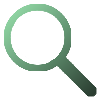
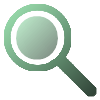
a) test J : amélioration du fuzzy matching en renforçant la plausibilité dans ScoreCandidates(). Ajustement du filtrage des tâches candidates pour éviter les faux positifs sur mots courts. b) test K : meilleure reconnaissance des expressions mixtes via normalisation multi‑tokens. Correction du match
Couverture actuelle de la matrice A‑Z : 26/26 tests OK.
Moteur de recherche finalisé. Pertinence des résultats légèrement supérieure à celle du calendrier Outlook.

Changed region(s): [[0.15, 0.15, 0.6, 0.6]]

diff --git a/LifeProManager/SmartSearch.cs b/LifeProManager/SmartSearch.cs
@@ -1,7 +1,7 @@
 /// <file>SmartSearch.cs</file>
 /// <author>Laurent Barraud</author>
 /// <version>1.8</version>
-/// <date>April 14th, 2026</date>
+/// <date>April 15th, 2026</date>
 
 using System;
 using System.Collections;
@@ -359,17 +359,23 @@ namespace LifeProManager
                 foreach (string variant in lstVariantTokens)
                 {
                     // Safety limit: prevents SQLite "too many variables" crash
-                    if (ExpandedTokensSet.Count >= 50)
+                    if (ExpandedTokensSet.Count >= 200)
                     {
                         break;
                     }
 
+                    // Adaptive Levenshtein radius:
+                    // - short tokens (<= 6 chars) allow distance 2
+                    // - longer tokens allow distance 1 to avoid pollution
+                    int maxDistance = (normalizedToken.Length <= 6) ? 2 : 1;
+
                     int distance = CalculateLevenshteinDistance(normalizedToken, variant);
 
-                    if (distance <= 2 && !ExpandedTokensSet.Contains(variant))
+                    if (distance <= maxDistance && !ExpandedTokensSet.Contains(variant))
                     {
                         ExpandedTokensSet.Add(variant);
                     }
+
                 }
             }
 
@@ -662,7 +668,8 @@ namespace LifeProManager
         /// - deadline proximity (today, overdue, near, same month)
         /// </summary>
         private List<ScoredTask> ScoreCandidates(List<Tasks> candidateTasks,
-            HashSet<string> lexicalTokensOnly, HashSet<string> expandedLexicalTokens, bool hasTemporal)
+                 HashSet<string> lexicalTokensOnly, HashSet<string> expandedLexicalTokens,
+                 bool hasTemporal, string parsedPriority)
         {
             if (candidateTasks == null || candidateTasks.Count == 0)
             {
@@ -783,16 +790,33 @@ namespace LifeProManager
                     // Levenshtein fuzzy matching (only for original lexical tokens)
                     if (isExactToken)
                     {
-                        // Keeps only words that are plausible fuzzy candidates.
-                        // This prevents fuzzy matching on unrelated words.
+                        // Plausibility filter to avoid fuzzy pollution
                         var plausibleWords = allWords
-                            .Where(word => word.Length > 0 && expandedToken.Length > 0 &&
-                                (word[0] == expandedToken[0] ||                       // same first letter
-                                 word.Intersect(expandedToken).Count() >= 2           // share at least 2 chars
-                                ))
+                            .Where(candidateWord =>
+                            {
+                                if (string.IsNullOrWhiteSpace(candidateWord))
+                                {
+                                    return false;
+                                }
+
+                                string normalizedCandidate = candidateWord.ToLowerInvariant();
+                                string normalizedToken = expandedToken.ToLowerInvariant();
+
+                                // Checks if both words start with the same letter
+                                bool sameFirstLetter = normalizedCandidate[0] == normalizedToken[0];
+
+                                // Counts how many characters they share
+                                int sharedCharacterCount = normalizedCandidate.Intersect(normalizedToken).Count();
+
+                                // Avoids matching words with very different lengths
+                                bool similarLength = Math.Abs(normalizedCandidate.Length - normalizedToken.Length) <= 2;
+
+                                // Accepts only if the candidate word is structurally plausible
+                                return (sameFirstLetter || sharedCharacterCount >= 3) && similarLength;
+                            })
                             .ToList();
 
-                        // Compute best Levenshtein distance among plausible candidates
+                        // Computes best Levenshtein distance among plausible candidates
                         int bestDistance = plausibleWords
                             .Select(word => CalculateLevenshteinDistance(expandedToken, word))
                             .DefaultIfEmpty(int.MaxValue)
@@ -900,6 +924,41 @@ namespace LifeProManager
                 {
                     totalScore -= 25;
                 }
+
+                // Priority semantic boost
+                if (!string.IsNullOrEmpty(parsedPriority))
+                {
+                    string taskPriority = "";
+
+                    // Map Priorities_id to semantic category
+                    switch (task.Priorities_id)
+                    {
+                        case 1: // important
+                        case 3: // important + repeatable
+                            taskPriority = "important";
+                            break;
+
+                        case 4: // anniversary
+                            taskPriority = "anniversary";
+                            break;
+
+                        default:
+                            taskPriority = ""; // no semantic category
+                            break;
+                    }
+
+                    if (taskPriority == parsedPriority)
+                    {
+                        // Strong semantic match
+                        totalScore += 40;
+                    }
+                    else
+                    {
+                        // Weak semantic match (same family)
+                        totalScore += 10;
+                    }
+                }
+
 
                 // Adds final scored task only if not rejected
                 if (totalScore > int.MinValue)
@@ -1027,7 +1086,7 @@ namespace LifeProManager
                 bool hasTemporal = temporalTokensOnly.Count > 0;
 
                 List<ScoredTask> scoredTasks = ScoreCandidates(candidateTasks, lexicalTokensOnly,
-                    expandedLexicalTokens, hasTemporal);
+                    expandedLexicalTokens, hasTemporal, parsedPriority);
 
                 // ---------------------------------------------------------------------
                 // KEYWORD-FIRST OVERRIDE
@@ -1560,14 +1619,26 @@ namespace LifeProManager
                 return true;
             }
 
+            // ---------------------------------------------------------------------
             // Multi-word relative day expressions like "day after tomorrow"
-            string collapsedFullTokenInput = normalizedFullTokenInput.Replace(" ", "");
+            // Filter out non-semantic words using LangDict.IgnoredKeywordSet
+            // before collapsing. This ensures correct matching against
+            // RelativeDayOffsetDict.
+            // ---------------------------------------------------------------------
+            string filteredFullTokenInput = string.Join(" ",
+                tokensList
+                    .Select(token => LangDict.NormalizeKey(token))
+                    .Where(token => !LangDict.IgnoredKeywordSet.Contains(token))
+            );
+
+            // Collapses only meaningful tokens
+            string collapsedFullTokenInput = filteredFullTokenInput.Replace(" ", "");
 
             if (LangDict.RelativeDayOffsetDict.TryGetValue(collapsedFullTokenInput, out int relativeDayOffSetValue))
             {
-                DateTime target = now.Date.AddDays(relativeDayOffSetValue);
-                startDateTime = target;
-                endDateTime = target;
+                DateTime targetDateTime = now.Date.AddDays(relativeDayOffSetValue);
+                startDateTime = targetDateTime;
+                endDateTime = targetDateTime;
                 return true;
             }
 
@@ -1923,6 +1994,41 @@ namespace LifeProManager
             if (TryParseWeekdayAbsolute(rawQuery, today, out startDate, out endDate))
             {
                 return (startDate, endDate);
+            }
+
+            // ---------------------------------------------------------------------
+            // Noun + weekday ("factura lunes", "meeting tuesday")
+            // Detects patterns where a weekday appears after a non‑temporal word.
+            // ---------------------------------------------------------------------
+            for (int i = 0; i < normalizedTokens.Count - 1; i++)
+            {
+                string firstToken = normalizedTokens[i];
+                string secondToken = normalizedTokens[i + 1];
+
+                // Second token must be a weekday
+                if (LangDict.WeekdayDict.TryGetValue(secondToken, out DayOfWeek weekday))
+                {
+                    // First token must not be temporal
+                    if (!LangDict.TemporalDirectionDict.ContainsKey(firstToken) &&
+                        !LangDict.TemporalPrepositionSet.Contains(firstToken) &&
+                        !LangDict.MonthNumberDict.ContainsKey(firstToken) &&
+                        !LangDict.WeekdayDict.ContainsKey(firstToken))
+                    {
+                        // Computes next occurrence of the weekday
+                        int delta = ((int)weekday - (int)today.DayOfWeek + 7) % 7;
+                        
+                        if (delta == 0)
+                        {
+                            delta = 7; // always next week
+                        }
+
+                        DateTime targetDateTime = today.AddDays(delta);
+
+                        startDate = targetDateTime;
+                        endDate = targetDateTime;
+                        return (startDate, endDate);
+                    }
+                }
             }
 
             // ---------------------------------------------------------------------

diff --git a/LifeProManager/frmMain.cs b/LifeProManager/frmMain.cs
@@ -1,7 +1,7 @@
 /// <file>frmMain.cs</file>
 /// <author>Laurent Barraud, David Rossy and Julien Terrapon</author>
 /// <version>1.8</version>
-/// <date>April 14th, 2026</date>
+/// <date>April 15th, 2026</date>
 
 using Microsoft.Win32;
 using System;
@@ -421,10 +421,10 @@ namespace LifeProManager
                 return;
             }
 
-            // Super-hover effect (Shift pressed) for Delete Topic button
-            if (btn == cmdDeleteTopic && Control.ModifierKeys == Keys.Shift)
+            // Super-hover effect (Ctrl or Shift pressed) for Delete Topic button
+            if (btn == cmdDeleteTopic && (Control.ModifierKeys == Keys.Shift || ModifierKeys == Keys.Control)) 
             {
-                Image superHover = Properties.Resources.delete_trash_hover;
+                Image superHover = Properties.Resources.delete_trash_super_hover;
 
                 if (superHover != null)
                 {
@@ -433,8 +433,8 @@ namespace LifeProManager
                 }
             }
 
-            // Super-hover effect (CTRL pressed) for Search button
-            if (btn == cmdSearch && Control.ModifierKeys == Keys.Control)
+            // Super-hover effect (Ctrl pressed) for Search button
+            if (btn == cmdSearch && ModifierKeys == Keys.Control)
             {
                 Image searchSuperHover = Properties.Resources.search_super_hover;
 
@@ -778,16 +778,7 @@ namespace LifeProManager
 
         private void cmdDeleteTopic_MouseEnter(object sender, EventArgs e)
         {
-            var button = (Button)sender;
-
-            if (Control.ModifierKeys == Keys.Shift)
-            {
-                button.BackgroundImage = Properties.Resources.delete_trash_super_hover;
-            }
-            else
-            {
-                button.BackgroundImage = Properties.Resources.delete_trash_hover;
-            }
+            
         }
 
         private void cmdDeleteTopic_MouseLeave(object sender, EventArgs e)

diff --git a/LifeProManager/LangDict.cs b/LifeProManager/LangDict.cs
@@ -1,7 +1,7 @@
 /// <file>LangDict.cs</file>
 /// <author>Laurent Barraud</author>
 /// <version>1.8</version>
-/// <date>April 14th, 2026</date>
+/// <date>April 15th, 2026</date>
 
 using System;
 using System.Collections.Generic;
@@ -73,6 +73,23 @@ namespace LifeProManager
 
             // Spanish
             "dia", "día", "dias", "días"
+        };
+
+        // Ignored keywords (articles, determiners, non-semantic words)
+        // Used to clean multi-token expressions before collapsing.
+        internal static readonly (string key, string value)[] lstIgnoredKeywords =
+        {
+            ("the", "the"),
+            ("le", "le"),
+            ("la", "la"),
+            ("les", "les"),
+            ("un", "un"),
+            ("une", "une"),
+            ("des", "des"),
+            ("el", "el"),
+            ("lo", "lo"),
+            ("los", "los"),
+            ("las", "las")
         };
 
         // Month names mapped to their numeric value (1–12).
@@ -567,6 +584,9 @@ namespace LifeProManager
 
         internal static readonly HashSet<string> DayKeywordSet =
             BuildNormalizedHashSet(lstDayKeywords);
+
+        internal static readonly HashSet<string> IgnoredKeywordSet =
+            BuildNormalizedHashSet(lstIgnoredKeywords.Select(x => x.value));
 
         internal static readonly HashSet<string> MonthKeywordSet =
             BuildNormalizedHashSet(lstMonthKeywords);

diff --git a/LifeProManager/frmAddTopic.Designer.cs b/LifeProManager/frmAddTopic.Designer.cs
@@ -67,6 +67,8 @@
             this.cmdValidate.BackgroundImage = global::LifeProManager.Properties.Resources.validate_task_hover;
             this.cmdValidate.Cursor = System.Windows.Forms.Cursors.Hand;
             this.cmdValidate.FlatAppearance.BorderSize = 0;
+            this.cmdValidate.FlatAppearance.MouseDownBackColor = System.Drawing.Color.Transparent;
+            this.cmdValidate.FlatAppearance.MouseOverBackColor = System.Drawing.Color.Transparent;
             this.cmdValidate.Name = "cmdValidate";
             this.cmdValidate.UseVisualStyleBackColor = false;
             this.cmdValidate.Click += new System.EventHandler(this.cmdValidate_Click);

diff --git a/LifeProManager/tests/TestRunner.cs b/LifeProManager/tests/TestRunner.cs
@@ -1,7 +1,7 @@
 /// <file>TestRunner.cs</file>
 /// <author>Laurent Barraud</author>
 /// <version>1.8</version>
-/// <date>April 14th, 2026</date>
+/// <date>April 15th, 2026</date>
 
 using LifeProManager;
 using System;
@@ -9,6 +9,8 @@ using System.Collections.Generic;
 
 public static class TestRunner
 {
+    // This method is called when the user holds CTRL and clicks on the Search button in the UI.
+    // It runs a series of 26 tests, each with a different query.
     public static void RunAll(SmartSearch engine)
     {
         Console.WriteLine("=== SMARTSEARCH A to Z TEST RUNNER ===");

diff --git a/LifeProManager/DBConnection.cs b/LifeProManager/DBConnection.cs
@@ -1,7 +1,7 @@
 /// <file>DBConnection.cs</file>
 /// <author>Laurent Barraud, David Rossy and Julien Terrapon</author>
 /// <version>1.8</version>
-/// <date>April 14th, 2026</date>
+/// <date>April 15th, 2026</date>
 
 using System;
 using System.Collections.Generic;

diff --git a/LifeProManager/frmAddTopic.cs b/LifeProManager/frmAddTopic.cs
@@ -1,7 +1,7 @@
 /// <file>frmAddTopic.cs</file>
 /// <author>Laurent Barraud, David Rossy and Julien Terrapon</author>
 /// <version>1.8</version>
-/// <date>April 14th, 2026</date>
+/// <date>April 15th, 2026</date>
 
 using System;
 using System.Collections.Generic;

diff --git a/LifeProManager/frmEditTask.cs b/LifeProManager/frmEditTask.cs
@@ -1,7 +1,7 @@
 /// <file>frmEditTask.cs</file>
 /// <author>Laurent Barraud, David Rossy and Julien Terrapon</author>
 /// <version>1.8</version>
-/// <date>April 14th, 2026</date>
+/// <date>April 15th, 2026</date>
 
 using System;
 using System.Collections.Generic;

diff --git a/LifeProManager/frmAddTask.cs b/LifeProManager/frmAddTask.cs
@@ -1,7 +1,7 @@
 /// <file>frmAddTask.cs</file>
 /// <author>Laurent Barraud, David Rossy and Julien Terrapon</author>
 /// <version>1.8</version>
-/// <date>April 14th, 2026</date>
+/// <date>April 15th, 2026</date>
 
 using System;
 using System.Collections.Generic;

diff --git a/LifeProManager/Program.cs b/LifeProManager/Program.cs
@@ -1,7 +1,7 @@
 /// <file>Program.cs</file>
 /// <author>Laurent Barraud, David Rossy and Julien Terrapon</author>
 /// <version>1.8</version>
-/// <date>April 14th, 2026</date>
+/// <date>April 15th, 2026</date>
 
 using System;
 using System.Globalization;

diff --git a/LifeProManager/frmBirthdayCalendar.cs b/LifeProManager/frmBirthdayCalendar.cs
@@ -1,7 +1,7 @@
 /// <file>frmBirthdayCalendar.cs</file>
 /// <author>Laurent Barraud</author>
 /// <version>1.8</version>
-/// <date>April 14th, 2026</date>
+/// <date>April 15th, 2026</date>
 
 using System;
 using System.Collections.Generic;

diff --git a/LifeProManager/Lists.cs b/LifeProManager/Lists.cs
@@ -1,7 +1,7 @@
 /// <file>Lists.cs</file>
 /// <author>Laurent Barraud, David Rossy and Julien Terrapon</author>
 /// <version>1.8</version>
-/// <date>April 14th, 2026</date>
+/// <date>April 15th, 2026</date>
 
 namespace LifeProManager
 {
